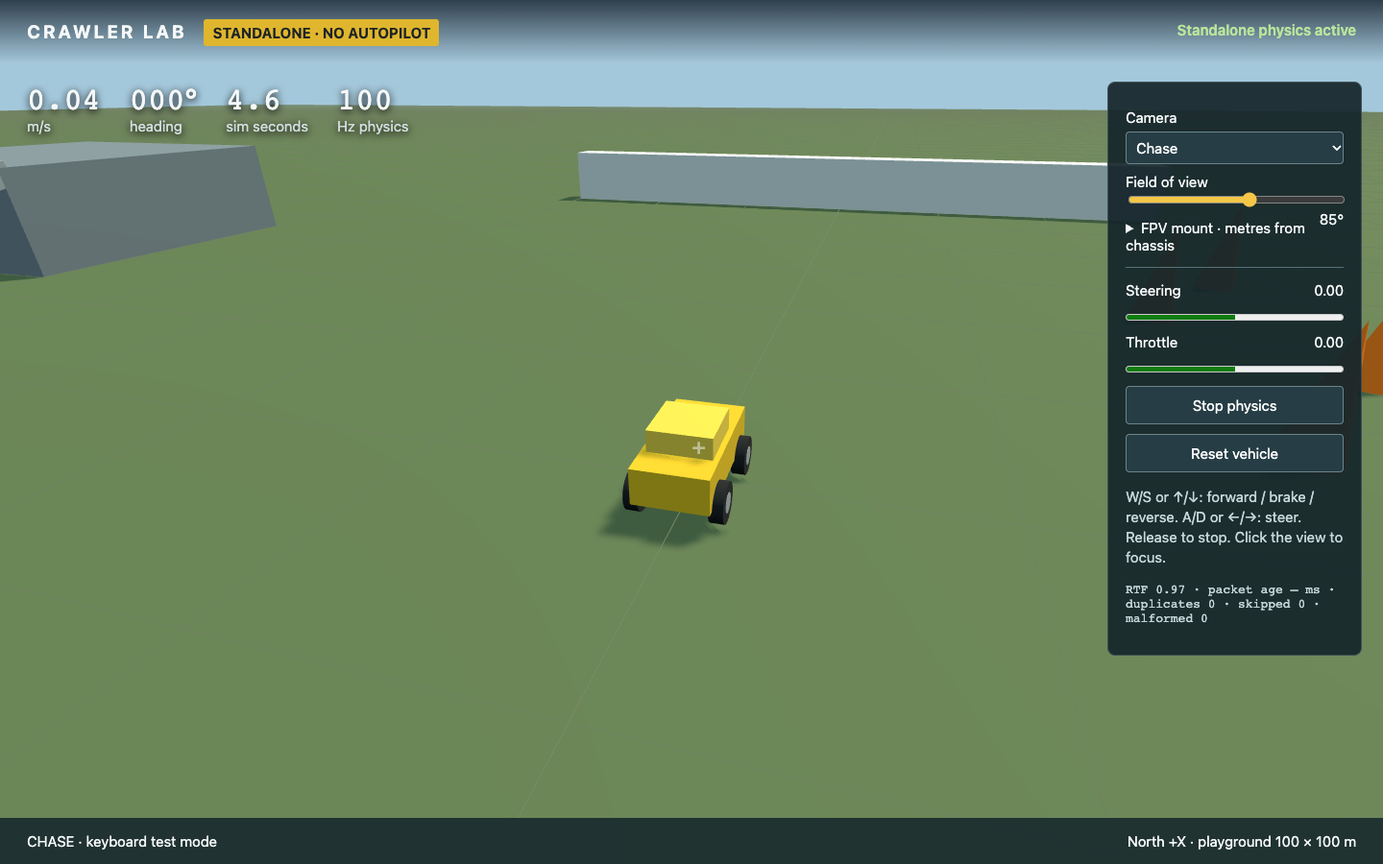
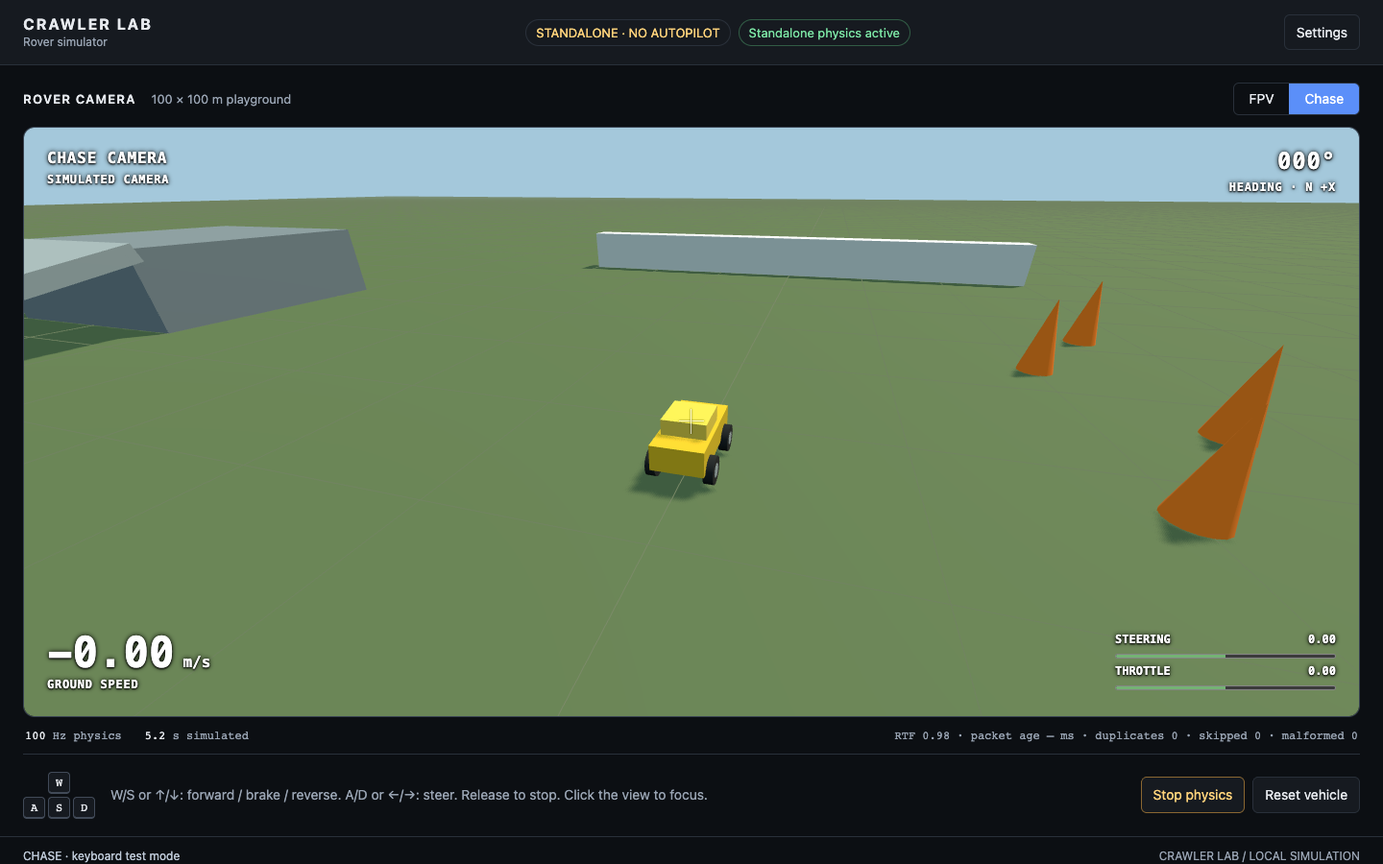
Add rover cockpit HUD with camera settings and focus-safe controls

diff --git a/web/style.css b/web/style.css
@@ -1,1 +1,123 @@
-*{box-sizing:border-box}body{margin:0;background:#162426;color:#f5f8f8;font:15px system-ui,sans-serif;overflow:hidden}#view{display:block;width:100vw;height:100vh}header{position:fixed;top:0;left:0;right:0;padding:22px 28px;display:flex;justify-content:space-between;background:linear-gradient(#101a25c9,transparent)}strong{font-size:19px;letter-spacing:.16em}#mode{margin-left:18px;background:#dfb62e;color:#1e2425;padding:5px 9px;border-radius:3px;font-weight:700}#connection{font-weight:600}#telemetry{position:fixed;left:28px;top:85px;display:flex;gap:30px}#telemetry div{display:flex;flex-direction:column;text-shadow:0 2px 8px #000}b{font:32px ui-monospace,monospace}#telemetry span{color:#d1dddd}aside{position:fixed;right:22px;top:85px;width:265px;padding:18px;background:#15252aeb;border:1px solid #60737688;border-radius:8px;max-height:calc(100vh - 150px);overflow:auto}label{display:block;margin:9px 0}input[type=range],meter{width:100%;accent-color:#f4c747}input[type=number]{width:80px;float:right}select,button,input[type=number]{font:inherit;background:#263d45;color:#fff;border:1px solid #6b858b;border-radius:4px;padding:6px}select{width:100%;margin-top:6px}button{cursor:pointer;width:100%;margin-top:10px;padding:10px}button:hover{background:#496064}output{float:right}p{color:#c6d5d7;line-height:1.4}summary{cursor:pointer}footer{position:fixed;bottom:0;padding:15px 28px;background:#14252bdc;display:flex;justify-content:space-between;width:100%;gap:10px}#reticle{position:fixed;top:50%;left:50%;font-size:25px;opacity:.5}#notice{position:fixed;left:50%;bottom:80px;transform:translateX(-50%);background:#7a3b27;padding:14px;max-width:650px;border-radius:6px;display:none}#diagnostics{font:13px ui-monospace,monospace}.actuator{border-top:1px solid #567276;margin-top:14px;padding-top:5px}@media(max-width:700px){aside{width:210px;top:170px;right:10px}header{padding:16px;font-size:13px}strong{font-size:15px}#mode{display:block;margin:6px 0 0}#telemetry{left:16px;gap:18px;top:105px}b{font-size:24px}footer span:last-child{display:none}}
+:root{color-scheme:dark;--bg:#0c0f13;--panel:#161a20;--text:#e6e9ee;--muted:#98a3b2;--line:#29303a;--accent:#5b8ff9;--ok:#7ce6a5;--warn:#ffd27a;font:16px/1.4 -apple-system,BlinkMacSystemFont,"Segoe UI",sans-serif}
+
+*{box-sizing:border-box}
+body{margin:0;background:var(--bg);color:var(--text);min-height:100vh;min-height:100dvh;display:flex;flex-direction:column}
+button,select,input{font:inherit;color:var(--text)}
+button,select,input[type=number]{background:var(--panel);border:1px solid var(--line);border-radius:6px;padding:8px 12px}
+button{cursor:pointer;font-size:.875rem;white-space:nowrap}
+button:hover{background:#232c39;border-color:#52637b}
+:focus-visible{outline:2px solid var(--accent);outline-offset:3px}
+.muted{color:var(--muted)}
+.top{display:flex;align-items:center;gap:20px;padding:14px 24px;background:var(--panel);border-bottom:1px solid var(--line)}
+.identity{display:flex;flex-direction:column;flex-shrink:0}
+.identity strong{font-size:1rem;letter-spacing:.12em}
+.identity .muted{font-size:.75rem}
+.connection-state{display:flex;align-items:center;flex-wrap:wrap;gap:8px;flex:1;justify-content:center}
+.pill{font-size:.8125rem;border:1px solid var(--line);border-radius:99px;padding:4px 10px}
+#mode{color:var(--warn)}
+#connection[data-state=online]{color:var(--ok);border-color:#315c45}
+#connection[data-state=waiting]{color:var(--warn);border-color:#655337}
+#connection[data-state=offline]{color:#ff9292;border-color:#6c393d}
+.cockpit{width:100%;max-width:1680px;margin:0 auto;padding:18px 24px 0;flex:1;display:flex;flex-direction:column;min-width:0}
+.viewbar{display:flex;align-items:center;justify-content:space-between;gap:12px;margin-bottom:12px}
+.viewbar>div:first-child{display:flex;align-items:center;gap:16px}
+.view-title{font-size:.8125rem;letter-spacing:.09em;font-weight:600}
+.secondary{font-size:.8125rem}
+.seg{display:inline-flex;border:1px solid var(--line);border-radius:6px;overflow:hidden;flex-shrink:0}
+.seg button{border:0;border-radius:0;background:transparent;padding:6px 16px}
+.seg button[aria-pressed=true]{background:var(--accent);color:#fff}
+
+#viewport{position:relative;isolation:isolate;background:#000;border:1px solid #394352;border-radius:12px;overflow:hidden;min-height:280px;height:calc(100dvh - 285px);max-height:1000px}
+#view{width:100%;height:100%;display:block}
+.osd{position:absolute;inset:0;pointer-events:none;color:#fff;font:600 .875rem/1.3 ui-monospace,SFMono-Regular,Menlo,monospace;text-shadow:0 1px 2px #000,0 0 5px #000}
+.osd-top-left,.osd-top-right,.osd-bottom-left,.osd-bottom-right{position:absolute;display:flex;flex-direction:column;gap:4px}
+.osd-top-left{top:22px;left:24px}
+.osd-top-right{top:20px;right:24px;text-align:right}
+.osd-bottom-left{bottom:24px;left:24px}
+.osd-bottom-right{bottom:24px;right:24px}
+.osd-label{font-size:1rem;letter-spacing:.05em}
+#heading{font-size:1.5rem}
+.osd-sub{font-size:.75rem;letter-spacing:.06em}
+.speed{display:flex;align-items:baseline;gap:9px}
+.speed b{font-size:2.75rem;font-weight:600;line-height:1}
+.speed small{font-size:1rem}
+.actuator{width:230px;font-size:.75rem}
+.actuator label{display:flex;justify-content:space-between;gap:12px}
+.actuator meter{width:100%;height:10px;accent-color:var(--accent)}
+#reticle{position:absolute;left:50%;top:50%;transform:translate(-50%,-50%);width:26px;height:26px;opacity:.65}
+#reticle i{position:absolute;display:block;background:white;box-shadow:0 0 2px #000}
+#reticle i:first-child{width:26px;height:1px;top:12px}
+#reticle i:last-child{height:26px;width:1px;left:12px}
+#notice{display:none;position:absolute;left:50%;top:24%;transform:translateX(-50%);background:#582d20ed;border:1px solid #c78664;border-radius:6px;padding:14px;max-width:calc(100% - 32px);width:max-content;z-index:2}
+
+.timing{display:flex;flex-wrap:wrap;align-items:center;gap:8px 24px;color:var(--muted);font:.75rem/1.5 ui-monospace,monospace;padding:10px 2px;border-bottom:1px solid var(--line)}
+.timing b{color:var(--text);font-weight:500}
+#diagnostics{margin-left:auto}
+.controls{display:flex;align-items:center;justify-content:space-between;gap:20px;padding:18px 0}
+.drive-help{display:flex;align-items:center;gap:16px;min-width:0}
+.drive-help p{font-size:.875rem;color:var(--muted);margin:0;max-width:680px}
+#keyLegend{display:flex;flex-direction:column;align-items:center;gap:3px;flex-shrink:0}
+#keyLegend[hidden]{display:none}
+#keyLegend span{display:flex;gap:3px}
+kbd{display:inline-grid;place-items:center;font:.75rem ui-monospace,monospace;background:var(--panel);border:1px solid #414a58;border-bottom-width:2px;border-radius:4px;width:23px;height:23px}
+.actions{display:flex;gap:8px}
+#run{border-color:#8a6732;color:var(--warn)}
+footer{display:flex;justify-content:space-between;flex-wrap:wrap;gap:8px;padding:12px 24px;font-size:.75rem;border-top:1px solid var(--line);color:var(--muted)}
+footer>span:first-child{color:#bdc8d6}
+
+dialog{position:fixed;inset:0 0 0 auto;margin:0;height:100%;max-height:100%;width:390px;max-width:100%;padding:26px;background:var(--panel);color:var(--text);border:0;border-left:1px solid #414a58;box-shadow:-12px 0 60px #0008}
+dialog::backdrop{background:#0008}
+dialog h1{font-size:1.25rem;margin:4px 0}
+.drawer-heading{display:flex;justify-content:space-between;gap:12px;align-items:center}
+.eyebrow{font-size:.75rem;letter-spacing:.08em}
+#closeSettings{font-size:1.125rem;padding:4px 10px}
+dialog p{font-size:.875rem}
+dialog>label{display:block;margin-top:26px;margin-bottom:10px;font-size:.875rem}
+dialog select{width:100%;padding:10px}
+dialog output{float:right;font-family:ui-monospace,monospace}
+input[type=range]{width:100%;accent-color:var(--accent)}
+fieldset{margin:28px 0 0;border:1px solid var(--line);border-radius:8px;padding:16px}
+legend{font-size:.875rem;padding:0 6px}
+fieldset p{margin-top:0}
+fieldset label{display:flex;justify-content:space-between;align-items:center;gap:12px;margin-top:12px;font-size:.875rem}
+input[type=number]{width:100px;min-width:0}
+.drawer-note{color:var(--muted);border-top:1px solid var(--line);padding-top:20px;margin-top:28px}
+
+@media(min-width:1800px){.cockpit{padding-top:24px}
+}
+@media(max-width:900px){.top{gap:12px;padding:12px 16px}
+.connection-state{justify-content:flex-start}
+.pill{font-size:.75rem}
+.cockpit{padding:14px 16px 0}
+#diagnostics{margin-left:0;width:100%}
+.controls{gap:12px}
+.actions{flex-direction:column}
+#viewport{height:calc(100dvh - 330px)}
+footer{padding:12px 16px}
+footer .muted{display:none}
+}
+@media(max-width:560px){.top{flex-wrap:wrap;gap:10px}
+.identity{flex:1}
+.top>button{order:1}
+.connection-state{order:2;flex-basis:100%;gap:6px}
+.viewbar>div:first-child{display:block}
+.secondary{display:none}
+#viewport{height:calc(100dvh - 390px);min-height:300px;border-radius:8px}
+.osd-top-left{top:14px;left:14px}
+.osd-top-right{top:12px;right:14px}
+.osd-bottom-left{left:14px;bottom:18px}
+.osd-bottom-right{right:14px;bottom:18px}
+.osd-label{font-size:.875rem}
+.osd-sub{font-size:.75rem;letter-spacing:0}
+.speed b{font-size:2rem}
+.actuator{width:165px;font-size:.75rem;gap:3px}
+.actuator label{gap:4px}
+#heading{font-size:1.25rem}
+.timing{gap:6px 18px}
+#diagnostics{font-size:.75rem}
+.controls{align-items:stretch;flex-direction:column;padding:14px 0}
+.drive-help{gap:12px}
+.actions{flex-direction:row}
+.actions button{flex:1}
+.drive-help p{font-size:.875rem}
+}

diff --git a/web/app.js b/web/app.js
@@ -1,5 +1,5 @@
 import * as T from '/three.js';
-const $=id=>document.getElementById(id),canvas=$('view');
+const $=id=>document.getElementById(id),canvas=$('view'),viewport=$('viewport'),settingsDialog=$('settingsDialog');
 const renderer=new T.WebGLRenderer({canvas,antialias:true});renderer.setPixelRatio(Math.min(devicePixelRatio,2));renderer.shadowMap.enabled=true;renderer.setClearColor(0xa4c8db);
 const scene=new T.Scene();scene.fog=new T.Fog(0xa4c8db,35,95);scene.add(new T.HemisphereLight(0xcfeeff,0x3b4529,2.5));const sun=new T.DirectionalLight(0xfff2d1,3);sun.position.set(10,25,10);sun.castShadow=true;sun.shadow.mapSize.set(2048,2048);sun.shadow.camera.left=-20;sun.shadow.camera.right=20;sun.shadow.camera.top=20;sun.shadow.camera.bottom=-20;sun.shadow.normalBias=.02;scene.add(sun);
 const rover=new T.Group();scene.add(rover);const camera=new T.PerspectiveCamera(85,1,.015,150),chase=new T.PerspectiveCamera(65,1,.03,150);
@@ -9,7 +9,7 @@ export const fpvOutput={camera,canvas,renderer,scene};
 function box(size,color,parent=scene){const m=new T.Mesh(new T.BoxGeometry(...size),new T.MeshStandardMaterial({color,roughness:.85}));m.castShadow=true;m.receiveShadow=true;parent.add(m);return m;}
 let state=null,config=null,wheels=[],ws,mode='sitl',lastReceive=0,wasRunning=true;
 function notice(message){$('notice').textContent=message;$('notice').style.display='block';setTimeout(()=>$('notice').style.display='none',7000);}
-function setup(m){config=m.config;mode=m.mode;const c=config.vehicle;$('mode').textContent=mode==='sitl'?'ARDUROVER SITL':'STANDALONE · NO AUTOPILOT';$('help').textContent=mode==='sitl'?'Drive using Mission Planner or your MAVLink companion. Browser keys do not control physics.':'W/S or ↑/↓: forward / brake / reverse. A/D or ←/→: steer. Release to stop. Click the view to focus.';
+function setup(m){config=m.config;mode=m.mode;const c=config.vehicle;$('mode').textContent=mode==='sitl'?'ARDUROVER SITL':'STANDALONE · NO AUTOPILOT';$('help').textContent=mode==='sitl'?'Drive using Mission Planner or your MAVLink companion. Browser keys do not control physics.':'W/S or ↑/↓: forward / brake / reverse. A/D or ←/→: steer. Release to stop. Click the view to focus.';$('keyLegend').hidden=mode!=='standalone';
   while(rover.children.length)rover.remove(rover.children[0]);wheels=[];
   const body=box([c.length,c.height,c.width],0xe8bd24,rover);body.position.y=.03;
   const cabin=box([c.length*.43,c.height*.9,c.width*.85],0xf4d14a,rover);cabin.position.set(-.03,c.height*.9,0);
@@ -22,22 +22,26 @@ function setup(m){config=m.config;mode=m.mode;const c=config.vehicle;$('mode').t
   const grid=new T.GridHelper(100,100,0x7c8a69,0x718361);grid.position.y=.002;world.add(grid);
 }
 function send(m){if(ws?.readyState===WebSocket.OPEN)ws.send(JSON.stringify(m));}
-function connect(){ws=new WebSocket(`${location.protocol==='https:'?'wss':'ws'}://${location.host}`);ws.onmessage=e=>{const m=JSON.parse(e.data);if(m.type==='init')setup(m);if(m.type==='error')notice(m.message);if(m.type==='state'){state=m;lastReceive=performance.now();}};ws.onclose=()=>{keys.clear();$('connection').textContent='Backend offline · reconnecting';setTimeout(connect,1000);};}
+function connect(){ws=new WebSocket(`${location.protocol==='https:'?'wss':'ws'}://${location.host}`);ws.onmessage=e=>{const m=JSON.parse(e.data);if(m.type==='init')setup(m);if(m.type==='error')notice(m.message);if(m.type==='state'){state=m;lastReceive=performance.now();}};ws.onclose=()=>{keys.clear();$('connection').textContent='Backend offline · reconnecting';$('connection').dataset.state='offline';setTimeout(connect,1000);};}
 connect();
 $('run').onclick=()=>send({type:'running',value:!state?.running});$('reset').onclick=()=>send({type:'reset'});
 $('fov').oninput=()=>{camera.fov=+$('fov').value;camera.updateProjectionMatrix();$('fovValue').textContent=`${camera.fov}°`;};
+function selectCamera(value){$('camera').value=value;for(const id of ['fpv','chase'])$(id).setAttribute('aria-pressed',String(id===value));$('cameraLabel').textContent=value==='fpv'?'ONBOARD FPV':'CHASE CAMERA';}
+$('fpv').onclick=()=>selectCamera('fpv');$('chase').onclick=()=>selectCamera('chase');$('camera').onchange=()=>selectCamera($('camera').value);
+$('settings').onclick=()=>{release();settingsDialog.showModal();};$('closeSettings').onclick=()=>settingsDialog.close();
+viewport.addEventListener('pointerdown',()=>viewport.focus());
 const keys=new Set(),valid=['w','a','s','d','arrowup','arrowdown','arrowleft','arrowright'];
-addEventListener('keydown',e=>{if(mode!=='standalone'||/INPUT|SELECT|TEXTAREA/.test(e.target.tagName))return;const k=e.key.toLowerCase();if(valid.includes(k)){e.preventDefault();keys.add(k);}});addEventListener('keyup',e=>keys.delete(e.key.toLowerCase()));
-function release(){keys.clear();send({type:'keys',steering:0,throttle:0});}addEventListener('blur',release);document.addEventListener('visibilitychange',()=>{if(document.hidden)release();});
+addEventListener('keydown',e=>{if(mode!=='standalone'||settingsDialog.open||document.activeElement!==viewport)return;const k=e.key.toLowerCase();if(valid.includes(k)){e.preventDefault();keys.add(k);}});addEventListener('keyup',e=>keys.delete(e.key.toLowerCase()));
+function release(){keys.clear();send({type:'keys',steering:0,throttle:0});}addEventListener('blur',release);viewport.addEventListener('blur',release);document.addEventListener('visibilitychange',()=>{if(document.hidden)release();});
 setInterval(()=>{if(mode==='standalone')send({type:'keys',throttle:Number(keys.has('w')||keys.has('arrowup'))-Number(keys.has('s')||keys.has('arrowdown')),steering:Number(keys.has('d')||keys.has('arrowright'))-Number(keys.has('a')||keys.has('arrowleft'))});},80);
 const mount=new T.Vector3(),target=new T.Vector3(),chasePosition=new T.Vector3();let previousTime=0,previousWall=0,ratio=0;
-function render(){requestAnimationFrame(render);const width=innerWidth,height=innerHeight;if(canvas.width!==Math.floor(width*renderer.getPixelRatio())||canvas.height!==Math.floor(height*renderer.getPixelRatio())){renderer.setSize(width,height,false);for(const c of [camera,chase]){c.aspect=width/height;c.updateProjectionMatrix();}}
+function render(){requestAnimationFrame(render);const width=viewport.clientWidth,height=viewport.clientHeight;if(canvas.width!==Math.floor(width*renderer.getPixelRatio())||canvas.height!==Math.floor(height*renderer.getPixelRatio())){renderer.setSize(width,height,false);for(const c of [camera,chase]){c.aspect=width/height;c.updateProjectionMatrix();}}
   if(state&&config){const s=state;rover.position.copy(s.position);rover.quaternion.copy(s.rotation);for(let i=0;i<4;i++){const w=s.wheels[i];wheels[i].steer.position.set(w.x,w.y,w.z);wheels[i].steer.rotation.y=i<2?-s.inputs.steering*config.vehicle.maxSteer:0;wheels[i].spin.rotation.z=w.rotation;}
     mount.set(+$('mountX').value||0,+$('mountY').value||0,(+$('mountRight').value||0)).applyQuaternion(rover.quaternion).add(rover.position);camera.position.copy(mount);target.set(1,0,0).applyQuaternion(rover.quaternion).add(mount);camera.up.set(0,1,0).applyQuaternion(rover.quaternion);camera.lookAt(target);
     chasePosition.set(-1.8,1.05,.5).applyQuaternion(rover.quaternion).add(rover.position);chase.position.lerp(chasePosition,.12);chase.lookAt(rover.position.clone().add(new T.Vector3(0,.1,0)));
     $('speed').textContent=s.speed.toFixed(2);$('heading').textContent=`${Math.round(s.heading).toString().padStart(3,'0')}°`;$('time').textContent=s.simTime.toFixed(1);$('rate').textContent=s.rate;
     for(const [id,value,index]of [['steer',s.inputs.steering,config.steering.channel-1],['throttle',s.inputs.throttle,config.throttle.channel-1]]){$(id).textContent=`${value.toFixed(2)}${s.raw[index]?` · ${s.raw[index]} µs`:''}`;$(id+'Meter').value=value;}
-    const online=performance.now()-lastReceive<2000;$('connection').textContent=!online?'Backend offline':mode==='standalone'?'Standalone physics active':s.connected?'JSON connected':s.resetPending?'Restart SITL to continue':'Waiting for SITL · physics held';$('connection').style.color=online&&(s.connected||mode==='standalone')?'#b9e59b':'#ffd182';
+    const online=performance.now()-lastReceive<2000;const connectionText=!online?'Backend offline':mode==='standalone'?'Standalone physics active':s.connected?'JSON connected':s.resetPending?'Restart SITL to continue':'Waiting for SITL · physics held';if($('connection').textContent!==connectionText)$('connection').textContent=connectionText;$('connection').dataset.state=!online?'offline':s.connected||mode==='standalone'?'online':'waiting';
     if(s.wallTime!==previousWall){ratio=(s.simTime-previousTime)/(s.wallTime-previousWall);previousTime=s.simTime;previousWall=s.wallTime;}
     $('run').textContent=s.running?'Stop physics':'Start physics';$('diagnostics').textContent=`RTF ${ratio.toFixed(2)} · packet age ${s.ageMs??'—'} ms · duplicates ${s.stats.duplicates} · skipped ${s.stats.skipped} · malformed ${s.stats.malformed}`;$('status').textContent=s.running?`${$('camera').value==='fpv'?'ONBOARD FPV':'CHASE'} · ${mode==='sitl'?'SITL actuator authority':'keyboard test mode'}`:'PHYSICS STOPPED · sensor time continues in SITL';
   }renderer.render(scene,$('camera').value==='fpv'?camera:chase);

diff --git a/web/index.html b/web/index.html
@@ -1,10 +1,56 @@
-<!doctype html><html lang="en"><head><meta charset="utf-8"><meta name="viewport" content="width=device-width,initial-scale=1"><title>Crawler Lab · Rover SITL</title><link rel="stylesheet" href="/style.css"></head><body>
-<canvas id="view" aria-label="Rover camera view"></canvas>
-<header><div><strong>CRAWLER LAB</strong><span id="mode">CONNECTING</span></div><div id="connection">Backend offline</div></header>
-<section id="telemetry"><div><b id="speed">0.00</b><span>m/s</span></div><div><b id="heading">000°</b><span>heading</span></div><div><b id="time">0.0</b><span>sim seconds</span></div><div><b id="rate">—</b><span>Hz physics</span></div></section>
-<aside><label>Camera <select id="camera"><option value="fpv">Onboard FPV</option><option value="chase">Chase</option></select></label>
-<label>Field of view <input id="fov" type="range" min="40" max="120" value="85"><output id="fovValue">85°</output></label>
-<details><summary>FPV mount · metres from chassis</summary><label>Forward <input id="mountX" type="number" step="0.01" value="0.15"></label><label>Height <input id="mountY" type="number" step="0.01" value="0.16"></label><label>Right <input id="mountRight" type="number" step="0.01" value="0"></label></details>
-<div class="actuator"><label>Steering <output id="steer">0</output></label><meter id="steerMeter" min="-1" max="1" value="0"></meter><label>Throttle <output id="throttle">0</output></label><meter id="throttleMeter" min="-1" max="1" value="0"></meter></div>
-<button id="run">Stop physics</button><button id="reset">Reset vehicle</button><p id="help">SITL mode: drive using Mission Planner or your MAVLink companion.</p><p id="diagnostics"></p></aside>
-<div id="reticle">+</div><footer><span id="status">Waiting for backend</span><span>North +X · playground 100 × 100 m</span></footer><div id="notice" role="status"></div><script type="module" src="/app.js"></script></body></html>
+<!doctype html>
+<html lang="en">
+<head>
+<meta charset="utf-8">
+<meta name="viewport" content="width=device-width,initial-scale=1">
+<meta name="theme-color" content="#0c0f13">
+<title>Crawler Lab · Rover SITL</title>
+<link rel="stylesheet" href="/style.css">
+</head>
+<body>
+<header class="top">
+  <div class="identity"><strong>CRAWLER LAB</strong><span class="muted">Rover simulator</span></div>
+  <div class="connection-state"><span id="mode" class="pill">CONNECTING</span><span id="connection" class="pill" role="status">Backend offline</span></div>
+  <button id="settings" aria-haspopup="dialog">Settings</button>
+</header>
+<main class="cockpit">
+  <div class="viewbar">
+    <div><span class="view-title">ROVER CAMERA</span><span class="muted secondary">100 × 100 m playground</span></div>
+    <div class="seg" role="group" aria-label="Camera view"><button id="fpv" aria-pressed="true">FPV</button><button id="chase" aria-pressed="false">Chase</button></div>
+  </div>
+  <section id="viewport" tabindex="0" aria-label="Rover viewport. Focus to drive in standalone mode.">
+    <canvas id="view" aria-label="Rover camera view"></canvas>
+    <div class="osd">
+      <div class="osd-top-left"><span class="osd-label" id="cameraLabel">ONBOARD FPV</span><span class="osd-sub">SIMULATED CAMERA</span></div>
+      <div class="osd-top-right"><span class="osd-label"><b id="heading">000°</b></span><span class="osd-sub">HEADING · N +X</span></div>
+      <div class="osd-bottom-left"><span class="speed"><b id="speed">0.00</b><small>m/s</small></span><span class="osd-sub">GROUND SPEED</span></div>
+      <div class="osd-bottom-right actuator">
+        <label>STEERING <output id="steer">0.00</output></label><meter id="steerMeter" min="-1" max="1" value="0">Steering</meter>
+        <label>THROTTLE <output id="throttle">0.00</output></label><meter id="throttleMeter" min="-1" max="1" value="0">Throttle</meter>
+      </div>
+      <div id="reticle" aria-hidden="true"><i></i><i></i></div>
+    </div>
+    <div id="notice" role="status"></div>
+  </section>
+  <div class="timing"><span><b id="rate">—</b> Hz physics</span><span><b id="time">0.0</b> s simulated</span><span id="diagnostics">Waiting for timing data</span></div>
+  <section class="controls" aria-label="Simulator controls">
+    <div class="drive-help"><div id="keyLegend" aria-hidden="true"><kbd>W</kbd><span><kbd>A</kbd><kbd>S</kbd><kbd>D</kbd></span></div><p id="help">Drive using Mission Planner or your MAVLink companion.</p></div>
+    <div class="actions"><button id="run">Stop physics</button><button id="reset">Reset vehicle</button></div>
+  </section>
+</main>
+<footer><span id="status">Waiting for backend</span><span class="muted">CRAWLER LAB / LOCAL SIMULATION</span></footer>
+<dialog id="settingsDialog" aria-labelledby="settingsTitle">
+  <div class="drawer-heading"><div><span class="muted eyebrow">CAMERA &amp; VIEW</span><h1 id="settingsTitle">Simulator settings</h1></div><button id="closeSettings" aria-label="Close settings">✕</button></div>
+  <p class="muted">Camera settings change the view only.</p>
+  <label for="camera">Camera</label><select id="camera"><option value="fpv">Onboard FPV</option><option value="chase">Chase</option></select>
+  <label for="fov">FPV field of view <output id="fovValue" for="fov">85°</output></label><input id="fov" type="range" min="40" max="120" value="85">
+  <fieldset><legend>FPV mount</legend><p class="muted">Metres from the chassis origin. Height is above the chassis, not the ground.</p>
+    <label for="mountX">Forward <input id="mountX" type="number" step="0.01" value="0.15"></label>
+    <label for="mountY">Height <input id="mountY" type="number" step="0.01" value="0.16"></label>
+    <label for="mountRight">Right <input id="mountRight" type="number" step="0.01" value="0"></label>
+  </fieldset>
+  <p class="drawer-note">Driving keys are released while settings are open. In SITL mode, ArduRover retains actuator control.</p>
+</dialog>
+<script type="module" src="/app.js"></script>
+</body>
+</html>

diff --git a/README.md b/README.md
@@ -221,7 +221,13 @@ wheelbase/track, suspension, steering limit, engine force, speed and resistance.
 calibration in SITL and the physical mapping intentionally to avoid accidental
 double reversal. Configuration changes require backend and SITL restart.
 
-- **FPV / Chase:** choose camera. FPV field of view 40–120°, mount forward/height/right
+- **HUD:** the dark cockpit shows backend/JSON connection state, speed, heading,
+  steering/throttle (including PWM in SITL), simulation time and packet diagnostics.
+  It does not receive MAVLink arming or mode telemetry. Use **Settings** to open
+  the camera drawer; close with Escape or the close button. Standalone driving
+  requires focus on the camera viewport and releases when focus leaves it or
+  settings open. In SITL, drive through Mission Planner or a MAVLink companion.
+- **FPV / Chase:** choose camera using the toolbar or Settings. FPV field of view 40–120°, mount forward/height/right
   offsets in metres from chassis centre. Mount height is above the chassis origin,
   not ground. Camera values affect rendering only.
 - **Stop / Start physics:** holds pose while stopped. In SITL, sensor timestamp
@@ -323,7 +329,7 @@ Integration reserves HTTP 8091, UDP 9003, TCP 5770/5772 and uses a temporary EEP
 and log directory. It checks stationary IMU, two MAVLink clients, EKF readiness,
 normal arm, manual forward/reverse/right steering, mission upload and waypoint
 reach. Artifacts go to `docs/integration-result.json` and `docs/integration-*.log`.
-Browser smoke reserves 8092 and checks real Chrome WebGL rendering, keys, pause
+Browser smoke reserves HTTP 8092/8093 and UDP 9004 and checks real Chrome WebGL rendering, keys, pause
 and reset, producing screenshots. No tests contact a real flight controller.
 
 ## Troubleshooting

diff --git a/docs/validation.md b/docs/validation.md
@@ -24,14 +24,19 @@
   collision barrier, ramp contact/tilt, neutral slowing, parameter import protection, actual UDP/
   HTTP/WebSocket backend timeout/reconnect and standalone multi-client ownership.
 - Chrome headless using the installed Chrome channel: actual WebGL rendering,
-  screenshots of FPV/chase, keyboard movement, pause and standalone reset.
+  screenshots of FPV/chase and 390px standalone/SITL layouts, viewport sizing,
+  keyboard movement, pause and standalone reset. Settings drawer focus, Escape,
+  FOV, camera selector synchronization, held-key release and stable connection
+  live-region announcements checked. A real UDP actuator fixture verifies
+  JSON state/PWM rendering and that browser keys retain SITL actuator authority.
+  This fixture is a protocol check, not another full ArduRover integration run.
 - JavaScript syntax checks, POSIX launcher syntax, Python compile check.
 - npm production dependency audit: zero known vulnerabilities at validation time.
 - Read-only review found a neutral-input ownership bug across standalone tabs;
   fixed with a reproducing backend WebSocket regression test.
 
 See `integration-result.json`, `integration-sitl.log`, `integration-backend.log`,
-`standalone.png` and `chase.png`. Test scripts regenerate these artifacts.
+`standalone.png`, `chase.png`, `mobile.png` and `sitl-mobile.png`. Test scripts regenerate these artifacts.
 
 ## Limits and remaining manual checks
 

diff --git a/docs/implementation.md b/docs/implementation.md
@@ -23,3 +23,23 @@ specific force R^-1(a-g), including gravity compensation at rest.
    Report VM/browser checks that cannot be exercised.
 
 No changes to existing projects; no remote publication or push.
+
+## Simulator HUD (2026-11-20)
+
+The approved continuation restyles this local simulator using the sibling rover
+UI's dark panels, status pills, blue camera selector and corner telemetry.
+Only visual conventions are reused; physics and JSON/MAVLink routing stay intact.
+
+Implementation and validation sequence:
+1. Extend `scripts/browser-smoke.mjs` for Settings, camera controls, focus safety
+   and a 390px window; confirm failure on the missing Settings button.
+2. Replace `web/index.html` and `web/style.css` with the framed responsive cockpit
+   and modal camera drawer, preserving existing control IDs.
+3. Update `web/app.js` to render at viewport dimensions, synchronize camera
+   selectors, require viewport focus for standalone driving, and release keys
+   on focus loss or opening settings. Keep SITL actuator authority unchanged.
+4. Run `npm test` and `node scripts/browser-smoke.mjs`; inspect FPV, chase and
+   narrow screenshots, then review the diff and document the controls.
+
+The header reports backend/JSON state only. No MAVLink arming, flight mode or
+WebRTC statistics are inferred. Camera settings remain session-local.
